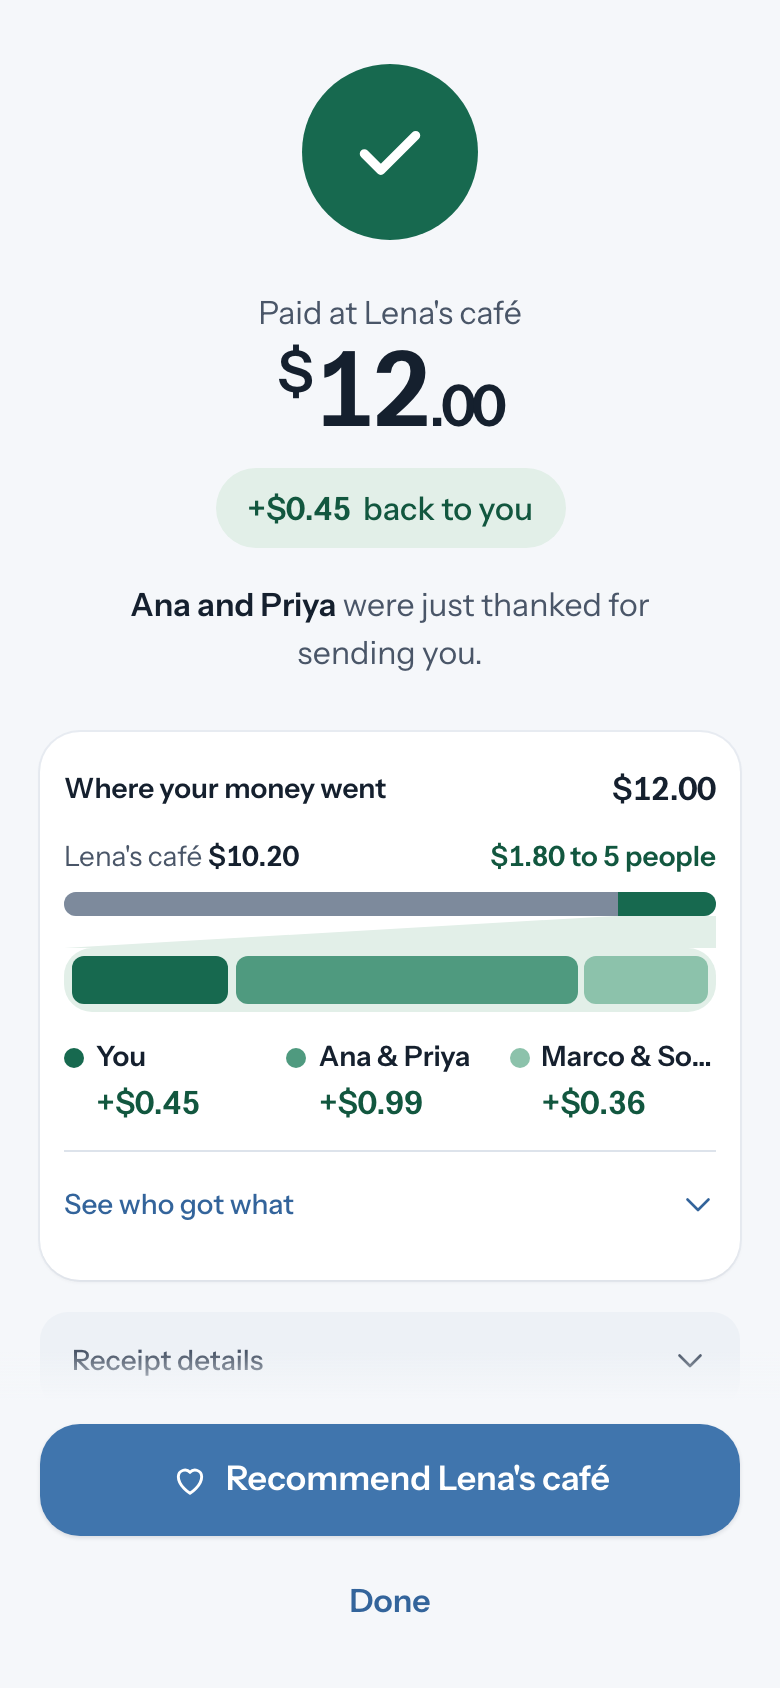
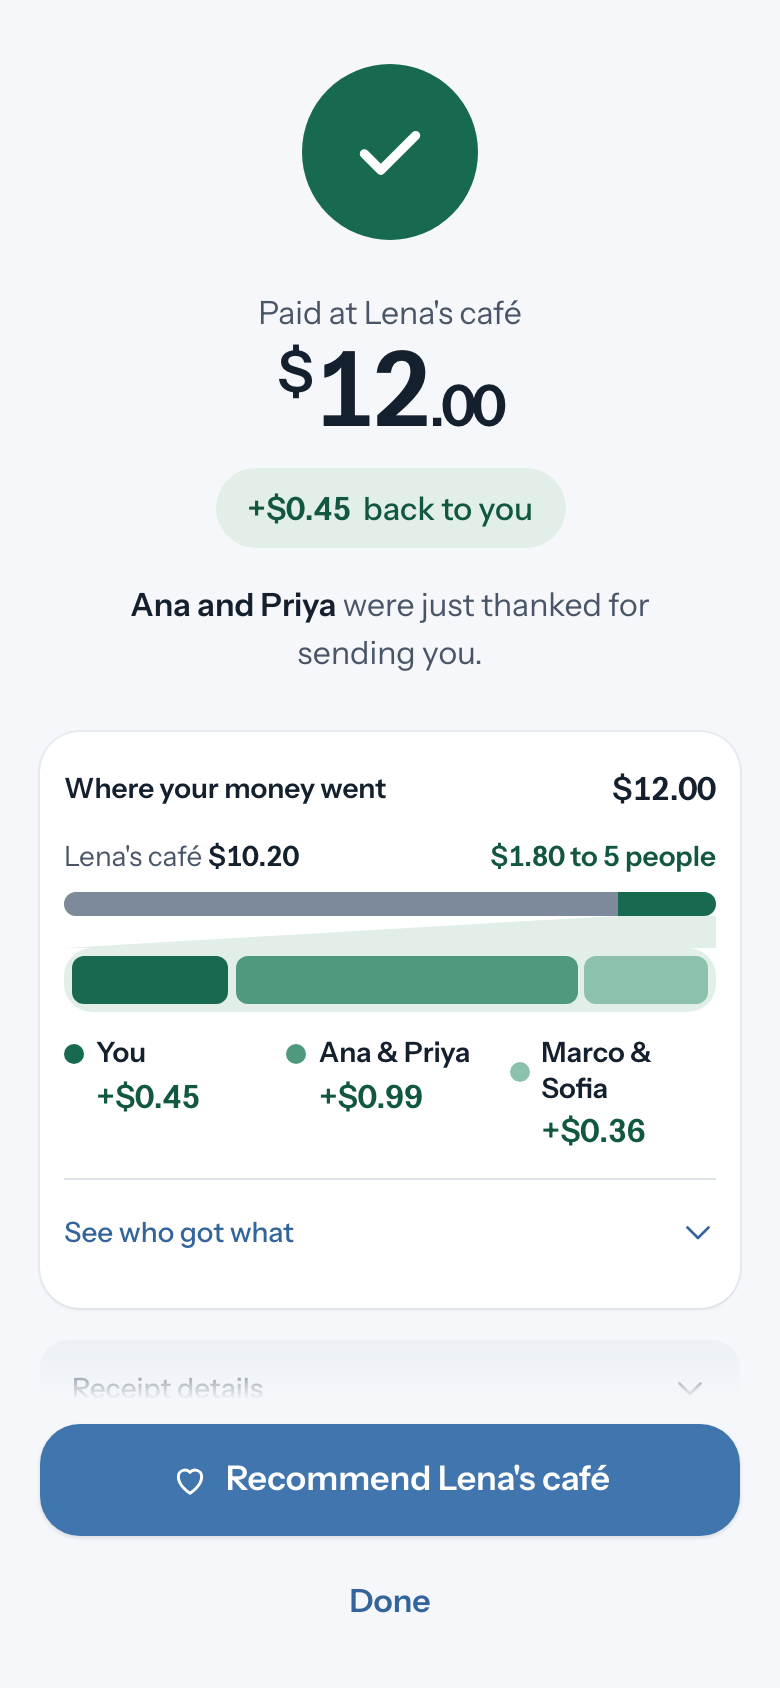
feat(web/customer): A9 follow-ups — friendly activity labels (copy only), success legend names wrap, scan background on tokens

diff --git a/apps/web/src/lib/views.ts b/apps/web/src/lib/views.ts
@@ -135,7 +135,7 @@ export function activityItems(items: ActivityItemJson[], me: string, names: Reco
         title: vn(p.venue),
         meta: thanked.length ? `${relTime(it.blockTime)} · thanked ${thanked.join(" and ")}` : relTime(it.blockTime),
         amount: -money(p.amount),
-        note: back > 0n ? `${formatMoney(back, { showPlus: true })} back` : undefined,
+        note: back > 0n ? `${formatMoney(back, { showPlus: true })} cashback` : undefined,
         kind: "payment",
         avatarName: vn(p.venue),
       });
@@ -143,8 +143,11 @@ export function activityItems(items: ActivityItemJson[], me: string, names: Reco
       const r = it.reward;
       if (r.returned || money(r.amount) === 0n) continue;
       const customer = nameOr(names, r.customer, "A friend");
-      const title = r.role === "introducer" ? `${nameOr(names, r.viaReferrer)} brought ${customer} in` : `${customer} came on your recommendation`;
-      out.push({ id: `r-${r.txHash}-${r.recipient}-${r.roleId}-${r.viaReferrer}`, title, meta: `${vn(r.venue)} · ${relTime(it.blockTime)}`, amount: money(r.amount), kind: "reward", avatarName: customer });
+      // Copy (A9): "From Ben's first visit to Lena's café" · "You recommended it" / "Ana recommended it".
+      const whose = customer === "A friend" ? "a friend's" : `${customer}'s`;
+      const title = `From ${whose} first visit to ${vn(r.venue)}`;
+      const why = r.role === "introducer" ? `Via ${nameOr(names, r.viaReferrer)}, who you brought in` : "You recommended it";
+      out.push({ id: `r-${r.txHash}-${r.recipient}-${r.roleId}-${r.viaReferrer}`, title, meta: `${why} · ${relTime(it.blockTime)}`, amount: money(r.amount), kind: "reward", avatarName: customer });
     }
   }
   return out;

diff --git a/apps/web/src/app/design/_mocks/CustomerMocks.tsx b/apps/web/src/app/design/_mocks/CustomerMocks.tsx
@@ -24,9 +24,9 @@ const VENUE = STORY.venue.name;
 
 const ACTIVITY: ActivityItem[] = [
   { id: "p0", title: "Kiln Bakery", meta: "Just now · sending", amount: -usd("4.50"), kind: "payment", status: "pending" },
-  { id: "p1", title: VENUE, meta: "Today, 9:41 · first visit", amount: -STORY.total, note: "+$0.45 back", kind: "payment" },
-  { id: "r2", title: "Ana brought Chloe in", meta: "Today, 8:15 · Kiln Bakery", amount: usd("0.21"), kind: "reward", avatarName: "Chloe" },
-  { id: "r1", title: "Chloe came on your recommendation", meta: "Yesterday · Kiln Bakery", amount: usd("0.62"), kind: "reward", avatarName: "Chloe" },
+  { id: "p1", title: VENUE, meta: "Today, 9:41 · first visit", amount: -STORY.total, note: "+$0.45 cashback", kind: "payment" },
+  { id: "r2", title: "From Maya's first visit to Kiln Bakery", meta: "Via Ana, who you brought in · 8:15", amount: usd("0.21"), kind: "reward", avatarName: "Maya" },
+  { id: "r1", title: "From Chloe's first visit to Kiln Bakery", meta: "You recommended it · Yesterday", amount: usd("0.62"), kind: "reward", avatarName: "Chloe" },
   { id: "t1", title: "Top up (testnet demo)", meta: "Yesterday · simulated", amount: usd("50.00"), kind: "topup" },
 ];
 

diff --git a/apps/web/src/screens/customer/PaymentSuccessScreen.tsx b/apps/web/src/screens/customer/PaymentSuccessScreen.tsx
@@ -151,7 +151,14 @@ export function PaymentSuccessScreen({
             </h2>
             <AmountDisplay value={amount} size="md" />
           </div>
-          <SplitBreakdown variant="bar" total={amount} parts={split} pending={pending} />
+          {/* Names in the 3-column legend wrap to 2 lines instead of truncating ("Marco & Sofia" at 390px). */}
+          <SplitBreakdown
+            variant="bar"
+            total={amount}
+            parts={split}
+            pending={pending}
+            className="[&_li_.truncate]:overflow-visible [&_li_.truncate]:whitespace-normal [&_li_.truncate]:leading-tight"
+          />
           <details className="group mt-3 border-t border-line pt-1">
             <summary className="focus-ring -mx-1 flex min-h-11 cursor-pointer list-none items-center justify-between rounded-md px-1 text-body-sm font-medium text-primary-ink [&::-webkit-details-marker]:hidden">
               See who got what

diff --git a/apps/web/src/screens/customer/ScanScreen.tsx b/apps/web/src/screens/customer/ScanScreen.tsx
@@ -92,9 +92,9 @@ export function ScanScreen({
   const showManual = blocked || manualOpen;
 
   return (
-    <div data-theme="dark" className="relative flex h-full min-h-full flex-col overflow-hidden bg-[#0d0c0b] text-ink">
+    <div data-theme="dark" className="relative flex h-full min-h-full flex-col overflow-hidden bg-canvas text-ink">
       <div className="absolute inset-0">
-        {!blocked && camera ? camera : <div className="size-full bg-[radial-gradient(120%_80%_at_50%_40%,#2a2723_0%,#0d0c0b_70%)]" />}
+        {!blocked && camera ? camera : <div className="size-full bg-[radial-gradient(120%_80%_at_50%_40%,var(--vx-surface-2)_0%,var(--vx-canvas)_70%)]" />}
       </div>
       <div className="relative flex items-center justify-between px-3 pt-3">
         <IconButton icon="close" label="Close scanner" onClick={onClose} />

diff --git a/apps/web/src/design/COPY.md b/apps/web/src/design/COPY.md
@@ -90,7 +90,8 @@ Blue (`primary`) is for actions, selection and links; green stays reserved for m
 | Onboarding headline | Get money back when a friend sends you somewhere new. |
 | Onboarding body | "Scan to pay at local cafés, barbers and salons. Your first visit gives you money back and thanks the friend who recommended it." |
 | Onboarding reassurance (under the button) | "No password, nothing to write down. Your face or fingerprint keeps your account safe." |
-| Home | "Your balance" · cashback stays on the purchase row as a green "+$0.45 back" |
+| Home | "Your balance" · cashback stays on the purchase row (shown once) as a green "+$0.45 cashback" |
+| Home reward rows | "From Ben's first visit to Lena's café" · meta "You recommended it · 2 h ago" or "Via Ana, who you brought in · 2 h ago" |
 | Home recommend card | Liked Lena's café? · "A friend gets money back on their first visit. You get paid too." · **Recommend** |
 | Pay sheet | "Paying" Lena's café · $12.00 · **You'll get $0.45 back** · "First-visit money back, right after you pay" |
 | Success | Primary **Recommend Lena's café**, then "Done" · mini split "Where your money went" · "See who got what" |
